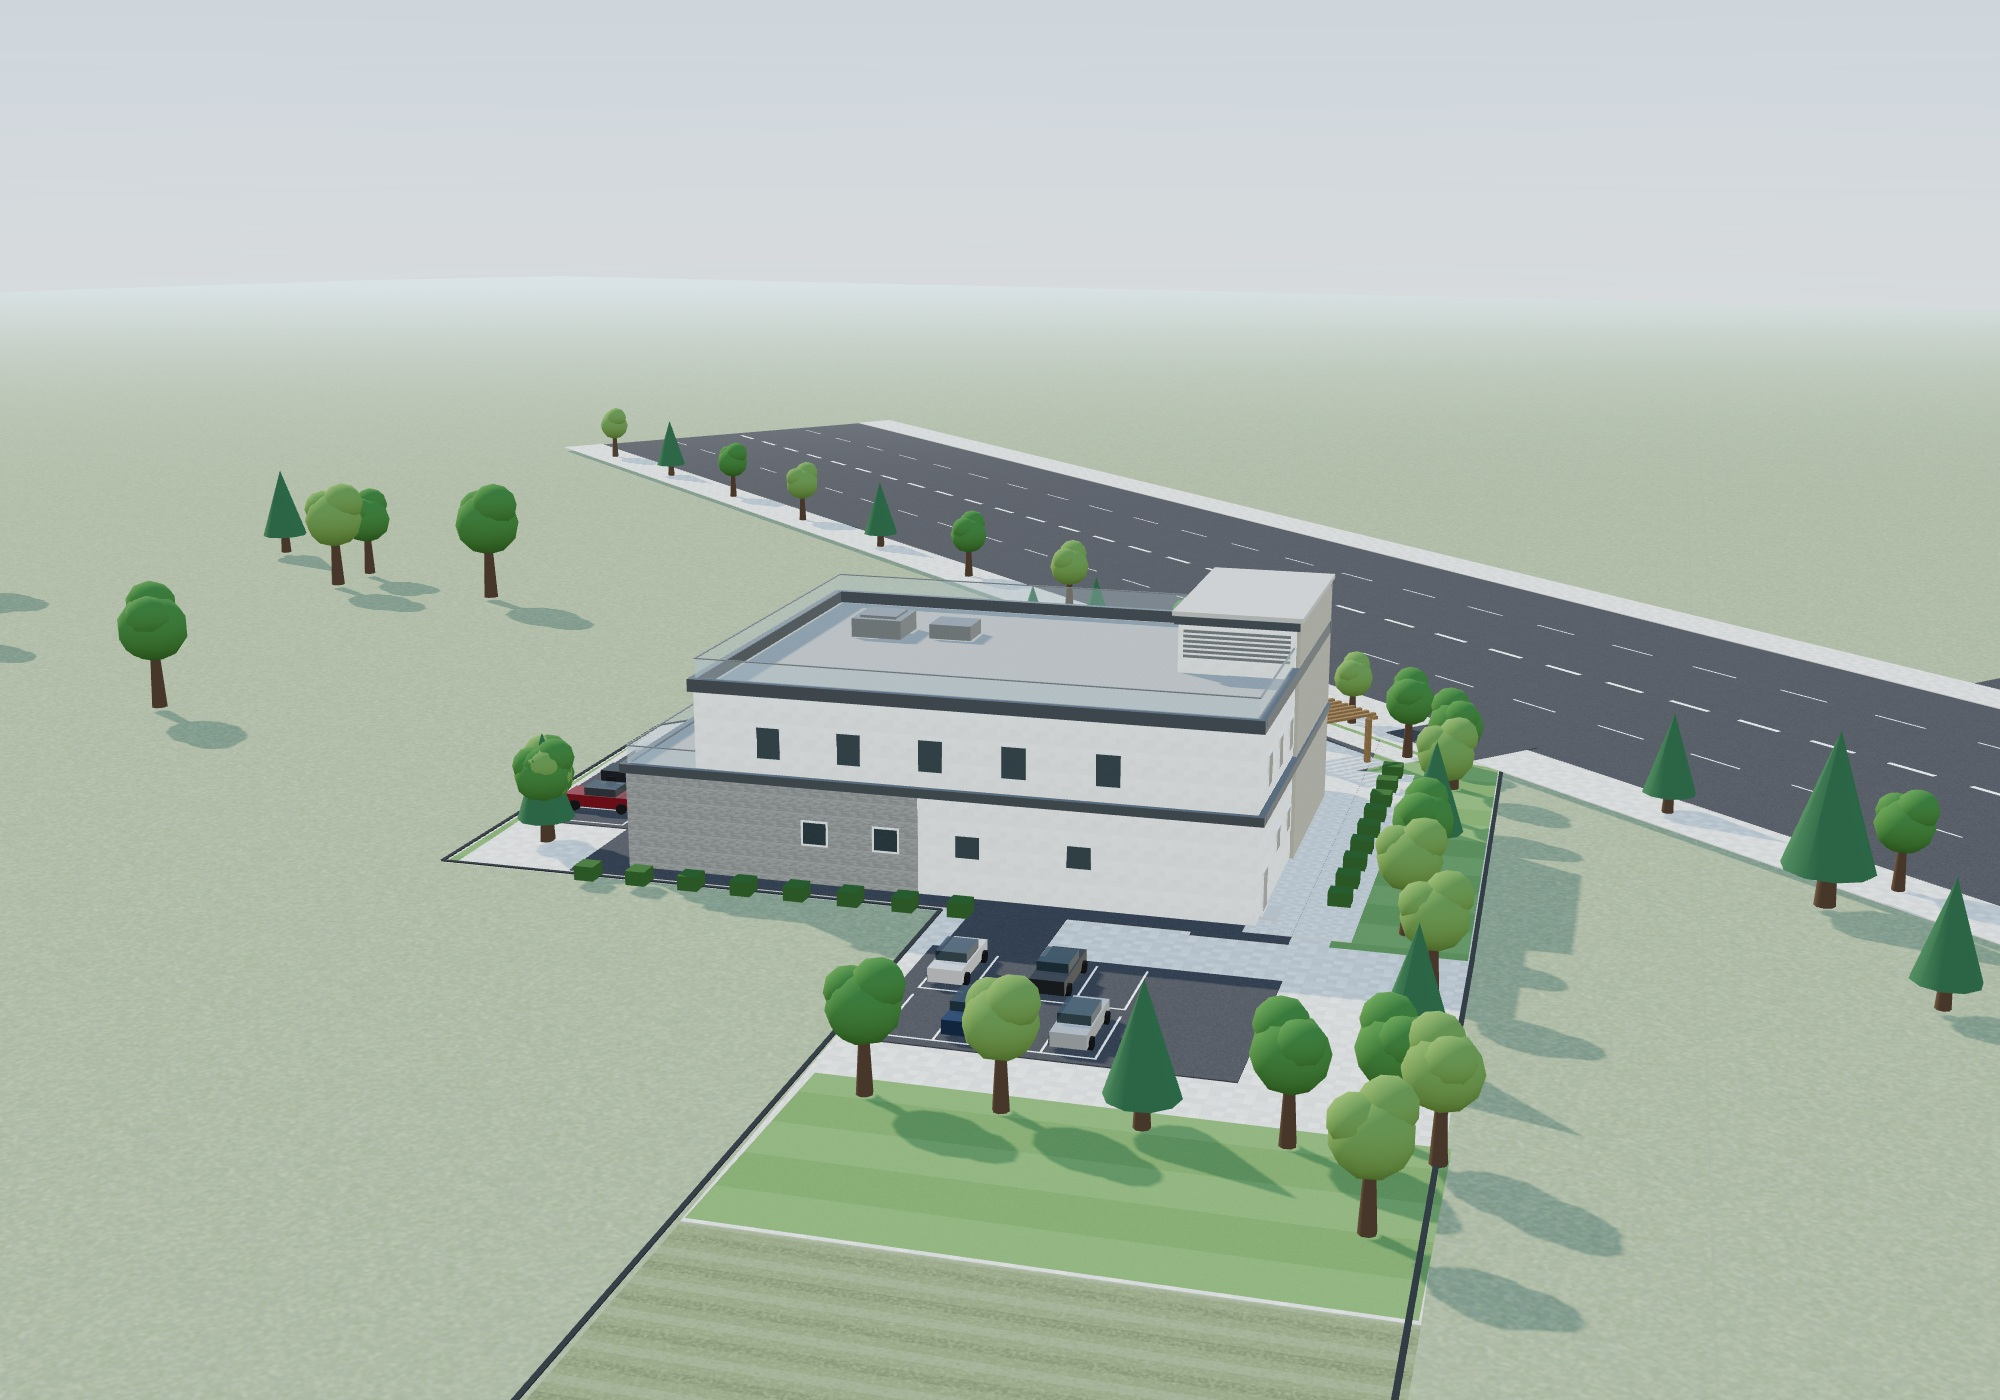
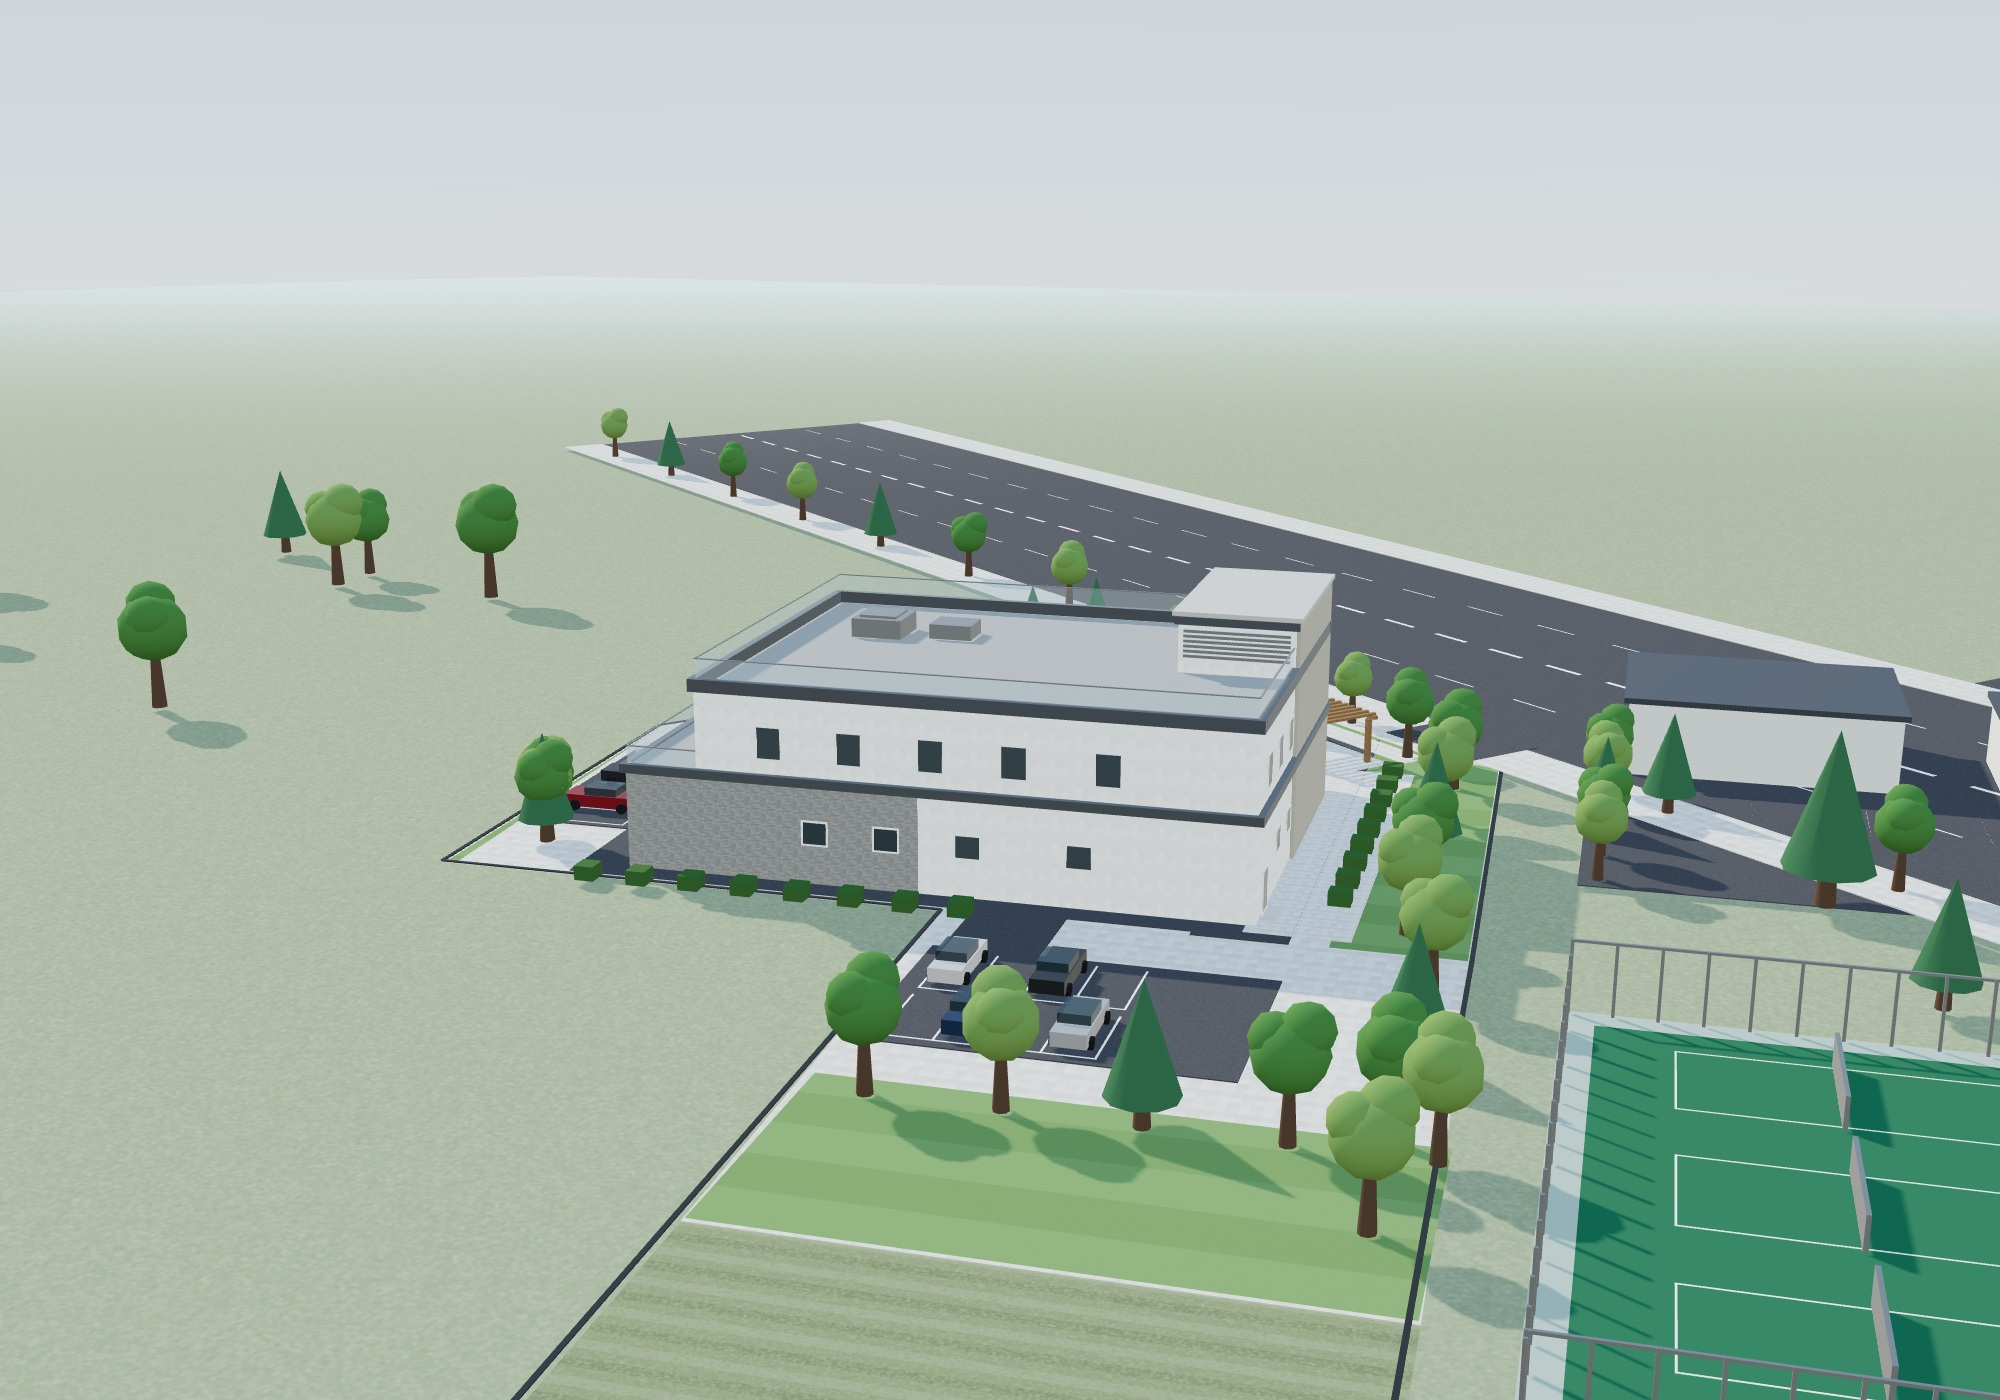
Add badminton courts, memorial garden elements and neighborhood context
Match the satellite view of the site: fenced badminton courts east of the
lot, roadside shops along the frontage, and farmland beyond. Add the
memorial-garden pieces to the frontage garden - name stone, raked gravel
beds, boulders with moss - and reframe the left aerial so the neighboring
shops no longer block the building.

Claude-Session: https://claude.ai/code/session_01CJ6ZFXZ7RHUSbgWedxMoCo

diff --git a/birdview/scene.js b/birdview/scene.js
@@ -613,6 +613,21 @@ function buildGarden() {
   box(pg, MAT.paving, -3.6, 3.6, -0.02, 0.06, -3.0, 3.0, 1.2);
   pg.position.set(30.0, 0, 8.0); P.add(pg);
 
+  /* --- 기억의 정원 : 표지석 · 자갈마당 · 경석 ------------------------------ */
+  box(P, MAT.stone, 1.6, 2.2, 0, 1.9, 12.6, 15.2, 0);            // 표지석 (기억의 정원)
+  const gravel = new THREE.MeshStandardMaterial({ color: 0xd4d0c6, roughness: 1 });
+  slab(P, gravel, 4.0, 22.0, 11.8, 13.4, 0.04, 1.0);             // 자갈 마당
+  slab(P, gravel, 4.0, 22.0, 1.6, 3.2, 0.04, 1.0);
+  const moss = new THREE.MeshStandardMaterial({ color: 0x4f6b3a, roughness: 1 });
+  [[6.5, 12.4], [12.0, 12.9], [17.5, 12.3], [8.0, 2.4], [14.5, 2.6], [19.5, 2.5]]
+    .forEach(([x, z]) => {
+      const r = new THREE.Mesh(new THREE.IcosahedronGeometry(0.55, 1), MAT.stone);
+      r.position.set(x, 0.22, z); r.scale.set(1.5, 0.55, 1.1);
+      r.castShadow = true; r.receiveShadow = true; P.add(r);
+      const m = new THREE.Mesh(new THREE.CircleGeometry(1.5, 16), moss);
+      m.rotation.x = -Math.PI / 2; m.position.set(x, 0.05, z); m.receiveShadow = true; P.add(m);
+    });
+
   /* --- 수목 (도로경계 정렬 대칭 식재) ------------------------------------- */
   for (let i = 0; i < 4; i++) tree(P, 5.5 + i * 6.4, 0.6, 5.0, i % 2);      // 도로변 열식
   for (let i = 0; i < 4; i++) tree(P, 6.0 + i * 5.6, 17.4, 5.4, (i + 1) % 2);
@@ -621,6 +636,57 @@ function buildGarden() {
     .forEach(([x, z, h, t]) => tree(P, x, z, h, t));
   return G;
 }
+
+/* =============================================================================
+ *  주변 확경 (위성사진 기준) — 배드민턴장 · 인접 상가 · 농경지
+ * ========================================================================== */
+function buildNeighborhood() {
+  const G = new THREE.Group(); G.name = '확경';
+
+  /* --- 배드민턴장 (대지 동측, 위성사진 위치) ------------------------------ */
+  const court = new THREE.MeshStandardMaterial({ color: 0x2f6b4a, roughness: 0.95 });
+  const courtEdge = new THREE.MeshStandardMaterial({ color: 0x9fb0a3, roughness: 0.95 });
+  slab(G, courtEdge, 50.0, 74.0, 30.0, 66.0, -0.02, 4.0);
+  slab(G, court, 51.5, 72.5, 31.5, 64.5, 0.0, 4.0);
+  // 코트 라인 3면
+  for (let c = 0; c < 3; c++) {
+    const z = 33.5 + c * 10.6;                       // 코트 13.4 x 6.1 (배드민턴 규격)
+    const x = 55.0;
+    [[x, x + 13.4, z, z + 0.1], [x, x + 13.4, z + 6.1, z + 6.2],
+     [x, x + 0.1, z, z + 6.2], [x + 13.4, x + 13.5, z, z + 6.2],
+     [x + 6.65, x + 6.75, z, z + 6.2]].forEach(([a, b, c0, c1]) =>
+      box(G, MAT.line, a, b, 0.005, 0.02, c0, c1, 0));
+    box(G, MAT.metal, x + 6.6, x + 6.8, 0.02, 1.55, z - 0.3, z + 6.5, 0);   // 네트
+  }
+  // 펜스
+  for (let i = 0; i <= 12; i++) box(G, MAT.metal, 50.2 + i * 2.0, 50.35 + i * 2.0, 0, 3.6, 30.2, 30.35, 0);
+  for (let i = 0; i <= 12; i++) box(G, MAT.metal, 50.2 + i * 2.0, 50.35 + i * 2.0, 0, 3.6, 65.7, 65.85, 0);
+  for (let i = 0; i <= 18; i++) box(G, MAT.metal, 50.2, 50.35, 0, 3.6, 30.2 + i * 2.0, 30.35 + i * 2.0, 0);
+  for (let i = 0; i <= 18; i++) box(G, MAT.metal, 73.7, 73.85, 0, 3.6, 30.2 + i * 2.0, 30.35 + i * 2.0, 0);
+  box(G, MAT.metal, 50.2, 73.85, 3.5, 3.62, 30.2, 30.35, 0);
+  box(G, MAT.metal, 50.2, 73.85, 3.5, 3.62, 65.7, 65.85, 0);
+  for (let i = 0; i < 4; i++) tree(G, 77.0, 33.0 + i * 10.0, 6.4, i % 3);
+
+  /* --- 인접 상가 (도로변 북동측) ------------------------------------------ */
+  const panel = new THREE.MeshStandardMaterial({ color: 0xd8d6d0, roughness: 0.7 });
+  const roofM = new THREE.MeshStandardMaterial({ color: 0x4c5157, roughness: 0.6, metalness: 0.4 });
+  const shop = (x0, x1, z0, z1, h) => {
+    box(G, panel, x0, x1, 0, h, z0, z1, 0);
+    box(G, roofM, x0 - 0.3, x1 + 0.3, h, h + 0.35, z0 - 0.3, z1 + 0.3, 0);
+    box(G, MAT.glassW, x0 + 0.6, x1 - 0.6, 0.6, h - 0.9, z0 - 0.12, z0 + 0.02, 0);
+  };
+  shop(52, 68, -22, -10, 4.6);
+  shop(74, 90, -19, -8, 4.2);
+  slab(G, MAT.asphalt, 50, 94, -8, 12, 0.0, 5.0);
+  for (let i = 0; i < 12; i++) box(G, MAT.line, 53 + i * 3.2, 53.1 + i * 3.2, 0.005, 0.02, -6, -1, 0);
+  for (let i = 0; i < 5; i++) tree(G, 51.0, -6.0 + i * 4.2, 5.6, i % 3);
+
+  /* --- 농경지 이랑 (동측 원경) -------------------------------------------- */
+  const soilM = new THREE.MeshStandardMaterial({ color: 0x8a7f66, roughness: 1 });
+  slab(G, soilM, 96, 190, -30, 90, -0.08, 3.0);
+  return G;
+}
+
 /* =============================================================================
  *  씬 구성
  * ========================================================================== */
@@ -669,6 +735,7 @@ function buildScene(renderer) {
   sun.target.position.set(30, 4, 8); scene.add(sun.target); scene.add(sun);
 
   scene.add(buildSite());
+  scene.add(buildNeighborhood());
   scene.add(buildContext());
   scene.add(buildGarden());
   scene.add(buildBuilding());
@@ -680,7 +747,7 @@ const TARGET = new THREE.Vector3(24, 4, 10);
 const VIEWS = {
   front: { name: '정면(35M 도로측) 조감도', pos: [-14, 40, -120], target: [19, 9, -4] },
   back:  { name: '배면 조감도',             pos: [52, 41, 132],   target: [19, 9, 16] },
-  left:  { name: '좌측면 조감도',           pos: [142, 42, -22],  target: [26, 9, 8] },
+  left:  { name: '좌측면 조감도',           pos: [128, 40, 58],   target: [24, 9, 14] },
   right: { name: '우측면 조감도',           pos: [-100, 40, -28], target: [13, 9, 6] },
   top:   { name: '상부(배치) 조감도',       pos: [26, 250, 104],  target: [26, 0, -16] },
 };
